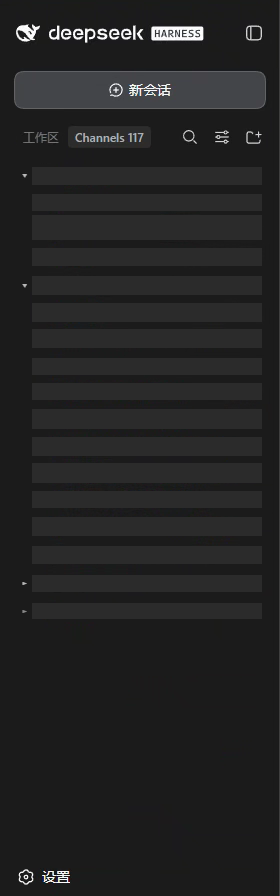
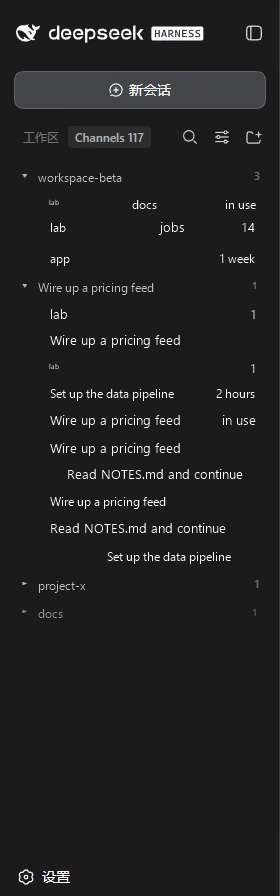
docs(preview): 预览截图改为示例数据（真实文字逐段擦除后重绘为假名/假标题/假时间）

diff --git a/README.md b/README.md
@@ -8,7 +8,7 @@
 
 | 工作区常态 | Channels 激活态（分组 + 脉冲点 + 归档折叠组） |
 |---|---|
-| ![工作区常态（会话名已遮蔽）](https://raw.githubusercontent.com/RGarvel/dsh-channel-view/main/docs/tab-normal.png) | ![Channels 激活态（会话名已遮蔽）](https://raw.githubusercontent.com/RGarvel/dsh-channel-view/main/docs/channels-active.png) |
+| ![工作区常态（示例数据）](https://raw.githubusercontent.com/RGarvel/dsh-channel-view/main/docs/tab-normal.png) | ![Channels 激活态（示例数据）](https://raw.githubusercontent.com/RGarvel/dsh-channel-view/main/docs/channels-active.png) |
 
 > 上表为**抹名版**截图：真实工作区与会话名已遮蔽，分组结构 / 脉冲点 / 归档折叠组保持原样。图片用绝对 URL，GitHub 与 npm 两处页面都不依赖相对路径解析。净化 demo 环境的正式截图待替换。
 
